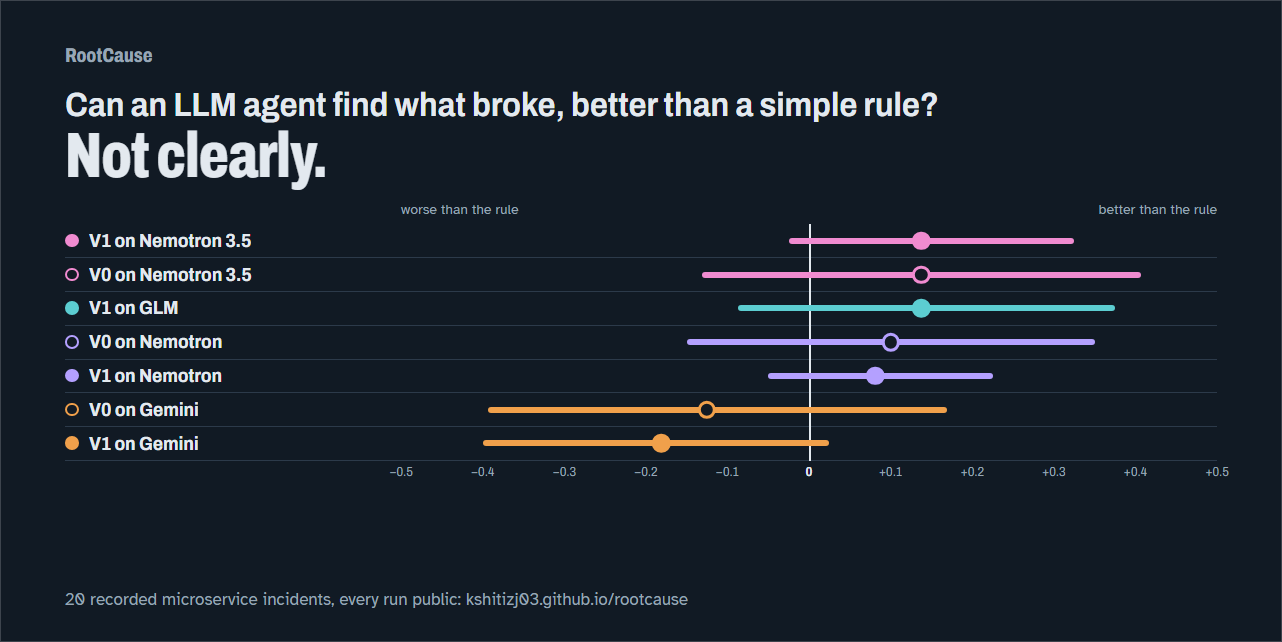
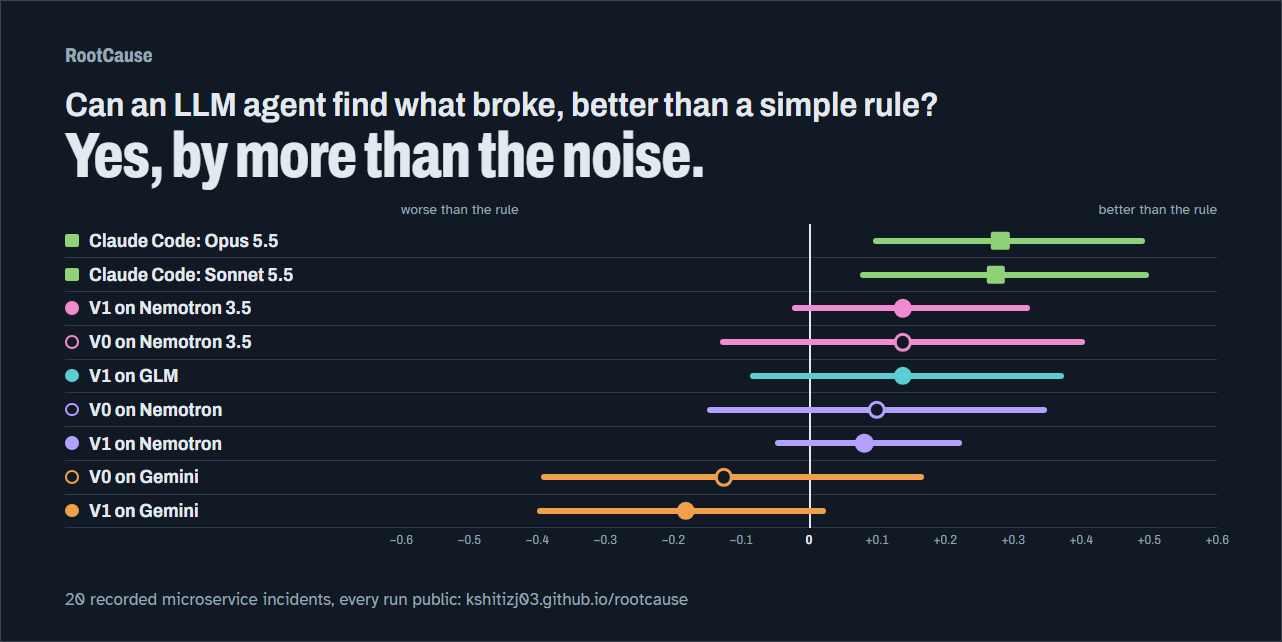
Data release data-v3: the Claude Sonnet 5.5 and Opus 5.5 runs
- rootcause-data-v3.zip is data-v2's 1,297 files plus the 200 Claude Code run records (1,497 files); runs
  tried locally on other models are left out, as in data-v2. Fetched with the pinned checksum, it rebuilds
  docs/results/report.md byte for byte.
- release.TAG = data-v3 and DATA_SHA256 pinned to the archive; README and the site link the data-v3 release.
- The README result image (light and dark) and the share card are redrawn from card.html: "Yes, by more than
  the noise", with both Claude models clear of zero. Their alt text says so.

diff --git a/site/index.html b/site/index.html
@@ -13,7 +13,7 @@
 <meta property="og:image" content="https://kshitizj03.github.io/rootcause/assets/card.png">
 <meta property="og:image:width" content="1280">
 <meta property="og:image:height" content="640">
-<meta property="og:image:alt" content="Can an LLM agent find what broke, better than a simple rule? Not clearly: every agent's 95% interval against the rule crosses zero.">
+<meta property="og:image:alt" content="Can an LLM agent find what broke, better than a simple rule? Yes: Claude Opus 5.5 and Sonnet 5.5 beat it on 16 fault incidents (95% intervals right of zero); the four free models' intervals all cross zero.">
 <meta name="twitter:card" content="summary_large_image">
 <link rel="preconnect" href="https://fonts.googleapis.com">
 <link rel="preconnect" href="https://fonts.gstatic.com" crossorigin>
@@ -95,7 +95,7 @@
 
   <section class="band" id="reproduce" aria-labelledby="reproduce-title">
     <h2 id="reproduce-title">Reproduce it</h2>
-    <p class="section-lede">The recorded incidents and every run behind this page are in the <a href="https://github.com/kshitizj03/rootcause/releases/tag/data-v2">data release</a>. Three commands rescore the rule from the raw telemetry; the agents need a free API key.</p>
+    <p class="section-lede">The recorded incidents and every run behind this page are in the <a href="https://github.com/kshitizj03/rootcause/releases/tag/data-v3">data release</a>. Three commands rescore the rule from the raw telemetry; the free-tier agents need a free API key, and the Claude Code solver a Claude subscription.</p>
     <pre class="commands" tabindex="0"><code>pip install -e .
 rootcause fetch-data
 rootcause eval heuristic</code></pre>

diff --git a/rootcause/config.py b/rootcause/config.py
@@ -10,7 +10,7 @@ STATE_FILE = DATA / "state.json"
 SCENARIOS_DIR = ROOT / "scenarios"
 # SHA-256 of the data release archive that fetch-data accepts: the digest `rootcause pack-data` printed for the
 # published archive (release.TAG names the release)
[2 lines of base64/hex data omitted]
 
 COMPOSE_FILES = ["compose.yaml", "compose.full.yaml", "compose.observability.yaml",
                  "compose.extras.yaml", str(ROOT / "infra" / "compose.ports.yaml")]

diff --git a/rootcause/release.py b/rootcause/release.py
@@ -16,7 +16,7 @@ from pathlib import Path, PurePosixPath
 
 from rootcause import config, evaluate, scenarios, snapshot
 
-TAG = "data-v2"  # the GitHub release this code's DATA_SHA256 belongs to; bump both when a new release is cut
+TAG = "data-v3"  # the GitHub release this code's DATA_SHA256 belongs to; bump both when a new release is cut
 ARCHIVE = f"rootcause-{TAG}.zip"
 URL = f"https://github.com/kshitizj03/rootcause/releases/download/{TAG}/{ARCHIVE}"
 STAMP = (2026, 1, 1, 0, 0, 0)  # every entry's timestamp, so the same data always gives the same bytes

diff --git a/README.md b/README.md
@@ -4,7 +4,7 @@ RootCause is an LLM agent that investigates microservice incidents over OpenTele
 
 <a href="https://kshitizj03.github.io/rootcause/"><picture>
   <source media="(prefers-color-scheme: dark)" srcset="docs/images/result-dark.png">
-  <img alt="Can an LLM agent find what broke, better than a simple rule? Not clearly: each agent's accuracy minus the rule's on 16 fault incidents, with a 95% interval; every interval crosses zero." src="docs/images/result-light.png">
+  <img alt="Can an LLM agent find what broke, better than a simple rule? Yes, by more than the noise: each agent's accuracy minus the rule's on 16 fault incidents, with a 95% interval; Claude Opus 5.5 and Sonnet 5.5 are clear of zero, every free model's interval crosses it." src="docs/images/result-light.png">
 </picture></a>
 
 **The result, honestly:**
@@ -44,12 +44,12 @@ rootcause eval heuristic
 ```
 
 - `pip install -e .` installs the package and the `rootcause` command. It must be editable (`-e`), because the package reads `scenarios/` and `data/` from this checkout.
-- `rootcause fetch-data` downloads the data release (the 20 recorded snapshots and every run record behind the report), checks its SHA-256 and unpacks it into `data/`. It comes from the [`data-v2` release](https://github.com/kshitizj03/rootcause/releases/tag/data-v2), and its checksum is pinned in `rootcause/config.py`. Offline, pass a downloaded copy with `rootcause fetch-data --from rootcause-data-v2.zip`.
+- `rootcause fetch-data` downloads the data release (the 20 recorded snapshots and every run record behind the report), checks its SHA-256 and unpacks it into `data/`. It comes from the [`data-v3` release](https://github.com/kshitizj03/rootcause/releases/tag/data-v3), and its checksum is pinned in `rootcause/config.py`. Offline, pass a downloaded copy with `rootcause fetch-data --from rootcause-data-v3.zip`.
 - `rootcause eval heuristic` scores the heuristic and prints its summary. Batches are resumable, so with the released records in place it adds no runs; delete `data/runs/heuristic` to score it from scratch. The agents need an API key (see [Score the solvers](#score-the-solvers)).
 
 ## Status
 
-> - **Complete:** the heuristic; agents v0 and v1 on Gemini 3.5 Flash-Lite, Nemotron 3 Super and Nemotron 3.5 Super, and agent v1 on GLM 5.3 Flash (5 runs on each of the 20 incidents); on Nemotron 3 Super, the no-priors, vague-alert and 30-step ablations; on Gemini, the vague-alert ablation; Claude Sonnet 5.5 and Opus 5.5 in Claude Code (5 runs on each incident). The Claude run records ship in the next data release (data-v3); until then `rootcause fetch-data` gets data-v2, without them.
+> - **Complete:** the heuristic; agents v0 and v1 on Gemini 3.5 Flash-Lite, Nemotron 3 Super and Nemotron 3.5 Super, and agent v1 on GLM 5.3 Flash (5 runs on each of the 20 incidents); on Nemotron 3 Super, the no-priors, vague-alert and 30-step ablations; on Gemini, the vague-alert ablation; Claude Sonnet 5.5 and Opus 5.5 in Claude Code (5 runs on each incident).
 > - **Running:** the Gemini no-priors ablation (quota-bound on the free tier). [`report.md`](docs/results/report.md) marks it as partial; no conclusions are drawn from it yet. Other models that were tried and not run (timeouts) are listed under [Models tried](docs/results/agents.md#models-tried).
 > - Two small decision models, Laya and Hunch, both scored below the heuristic zero-shot, so no small-model-then-agent cascade was built ([`laya.md`](docs/results/laya.md), [`hunch.md`](docs/results/hunch.md)).
 

diff --git a/docs/results/agents.md b/docs/results/agents.md
@@ -1,6 +1,6 @@
 # What helps the agent: model, tools, alert, prompt
 
-**Status: 2026-11-10.** Added: Claude Sonnet 5.5 and Opus 5.5 in Claude Code (5 runs on each of 20 incidents; records in the next data release). Complete since 2026-10-20: agents v0 and v1 on Gemini 3.5 Flash-Lite, Nemotron 3 Super and Nemotron 3.5 Super, and agent v1 on GLM 5.3 Flash (5 runs on each of 20 incidents); the no-priors, vague-alert and 30-step ablations on Nemotron 3 Super; the vague-alert ablation on Gemini (3 runs each). Running: the Gemini no-priors ablation (quota-bound); no conclusions are drawn from it here. Every figure below comes from [`report.md`](report.md), which marks running batches as partial and also has the per-scenario tables.
+**Status: 2026-11-10.** Added: Claude Sonnet 5.5 and Opus 5.5 in Claude Code (5 runs on each of 20 incidents; records in data-v3). Complete since 2026-10-20: agents v0 and v1 on Gemini 3.5 Flash-Lite, Nemotron 3 Super and Nemotron 3.5 Super, and agent v1 on GLM 5.3 Flash (5 runs on each of 20 incidents); the no-priors, vague-alert and 30-step ablations on Nemotron 3 Super; the vague-alert ablation on Gemini (3 runs each). Running: the Gemini no-priors ablation (quota-bound); no conclusions are drawn from it here. Every figure below comes from [`report.md`](report.md), which marks running batches as partial and also has the per-scenario tables.
 
 ## In short
 
